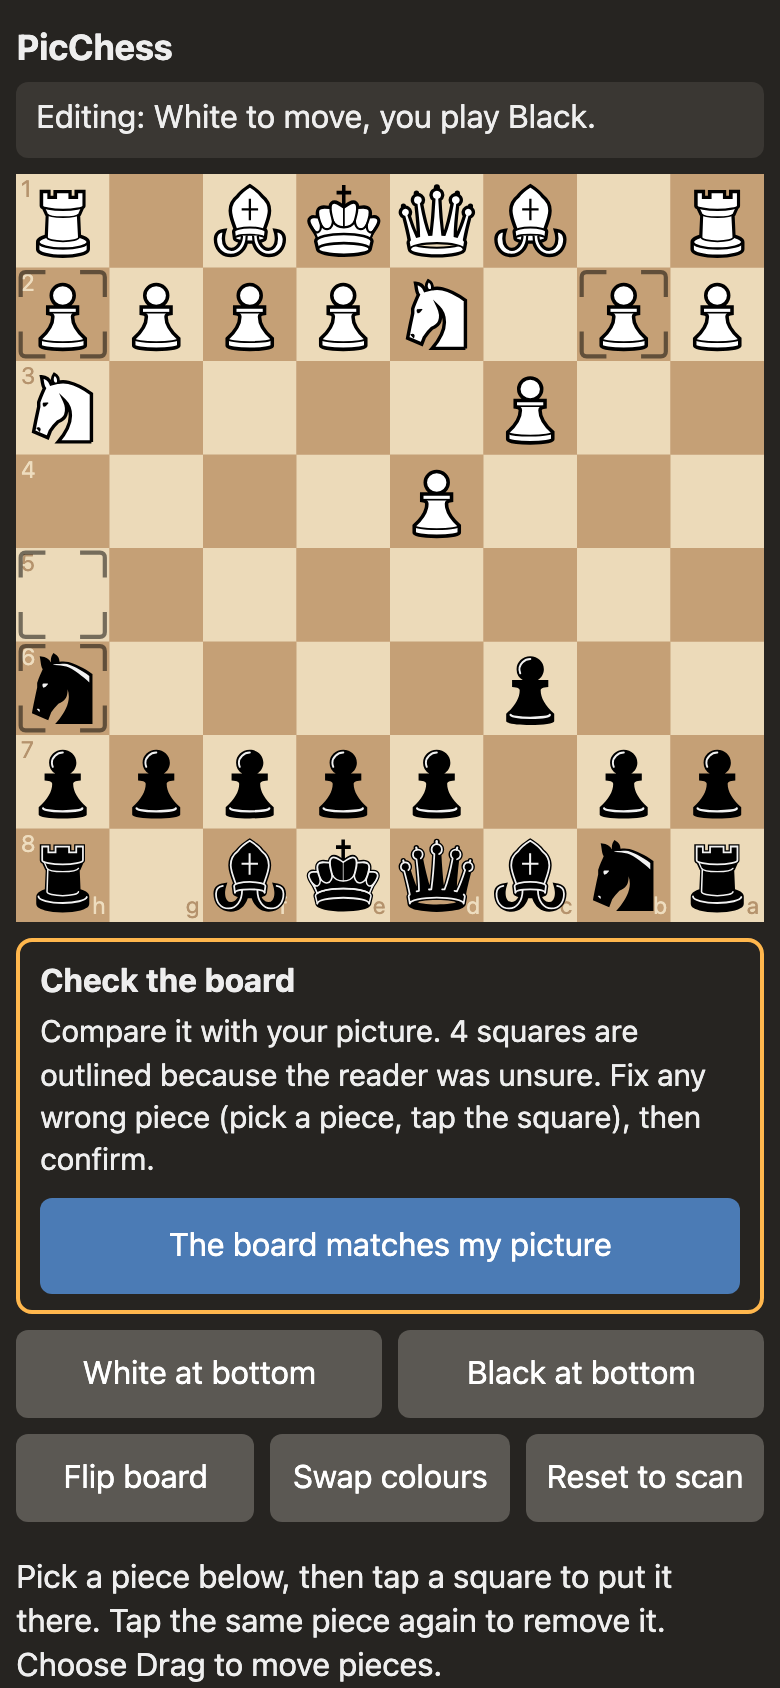
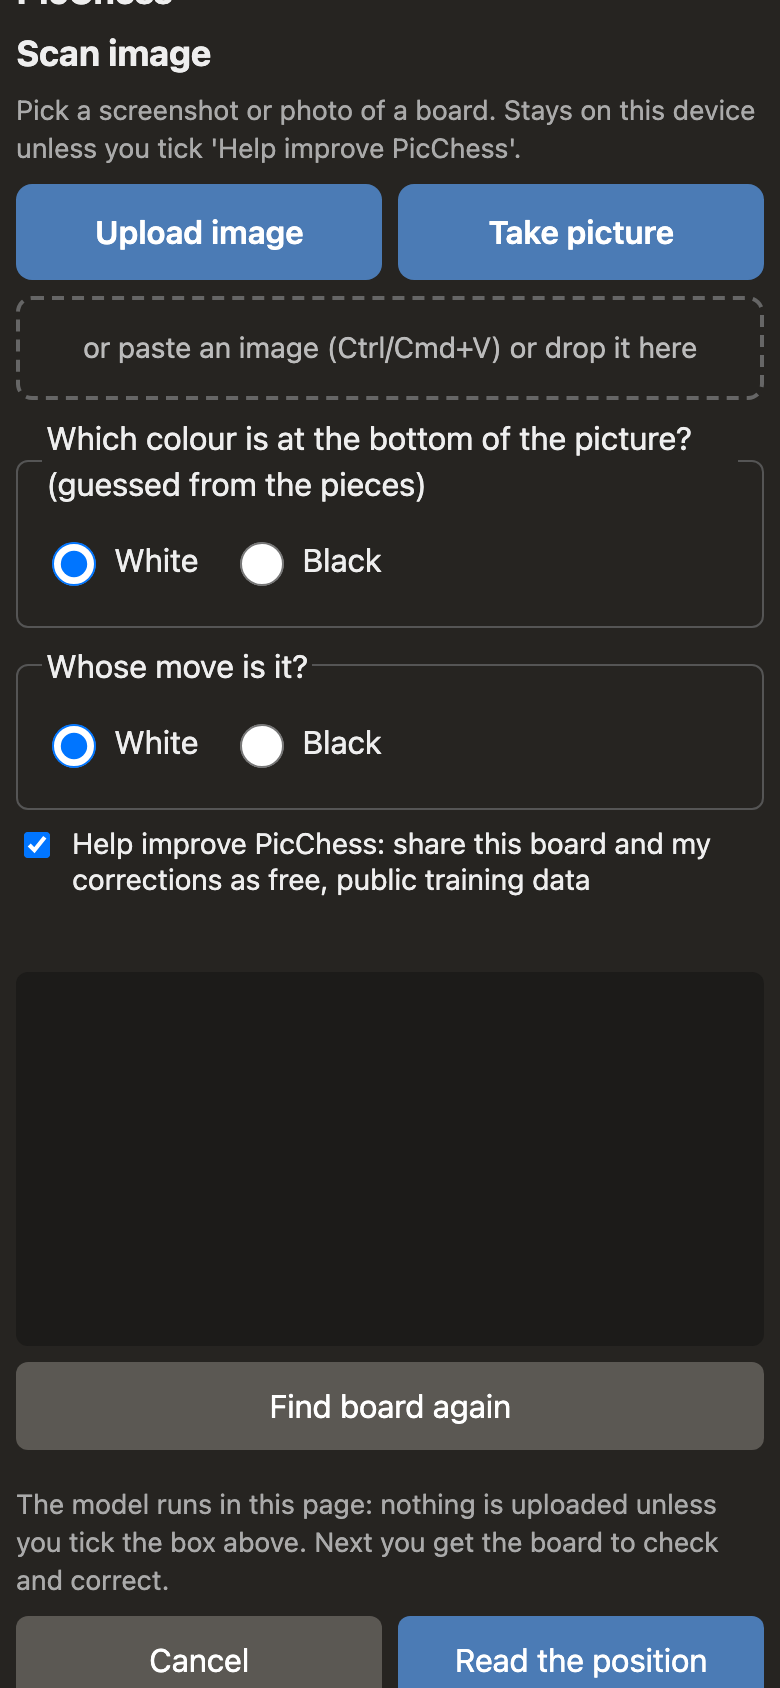
09b: live share Worker proof, 390 px proofs, decisions

diff --git a/docs/DECISIONS.md b/docs/DECISIONS.md
@@ -82,3 +82,10 @@
 - "Check the board" is always shown after a read: the board editor opens prefilled, unsure squares are outlined, and Play stays locked until the user confirms. Unseen piece art is about 90% per square, so a silent result would be wrong.
 - Bottom colour is guessed from pawn/king positions and can be switched in the editor.
 - Proof: real browser at 390 px, held-out fixture 01 (totoy, purple, Black at bottom): 0 of 64 wrong, see docs/proof-08-screenshot-to-fen.txt. tools/serve.mjs is a static server with correct MIME types; tools/proof08.mjs drives the proof.
+
+## 2026-10-15: shared board images in Workers KV, not R2
+- R2 needs a card on file; the zero-spend rule forbids it. Images go in a second KV namespace (SHARES) with bytes as the value and the JSON record (fen, kind, bottom colour, ts, licence CC0) as KV metadata.
+- Daily cap 900 shares; each share costs about 3 KV writes, so the real ceiling on the free 1000 writes/day is about 330 shares/day. Over cap returns 503 and the app just skips sharing.
+- /hit counters are batched per isolate (first hit per key writes at once, the rest flush at most hourly). /stats is cached 60 s and KV list lags ~60 s.
+- /hit source is an allowlist (else "other") so callers cannot create unbounded keys.
+- Worker lives at https://picchess-share.picchess.workers.dev (workers.dev subdomain "picchess" registered on the existing Cloudflare login, free).
